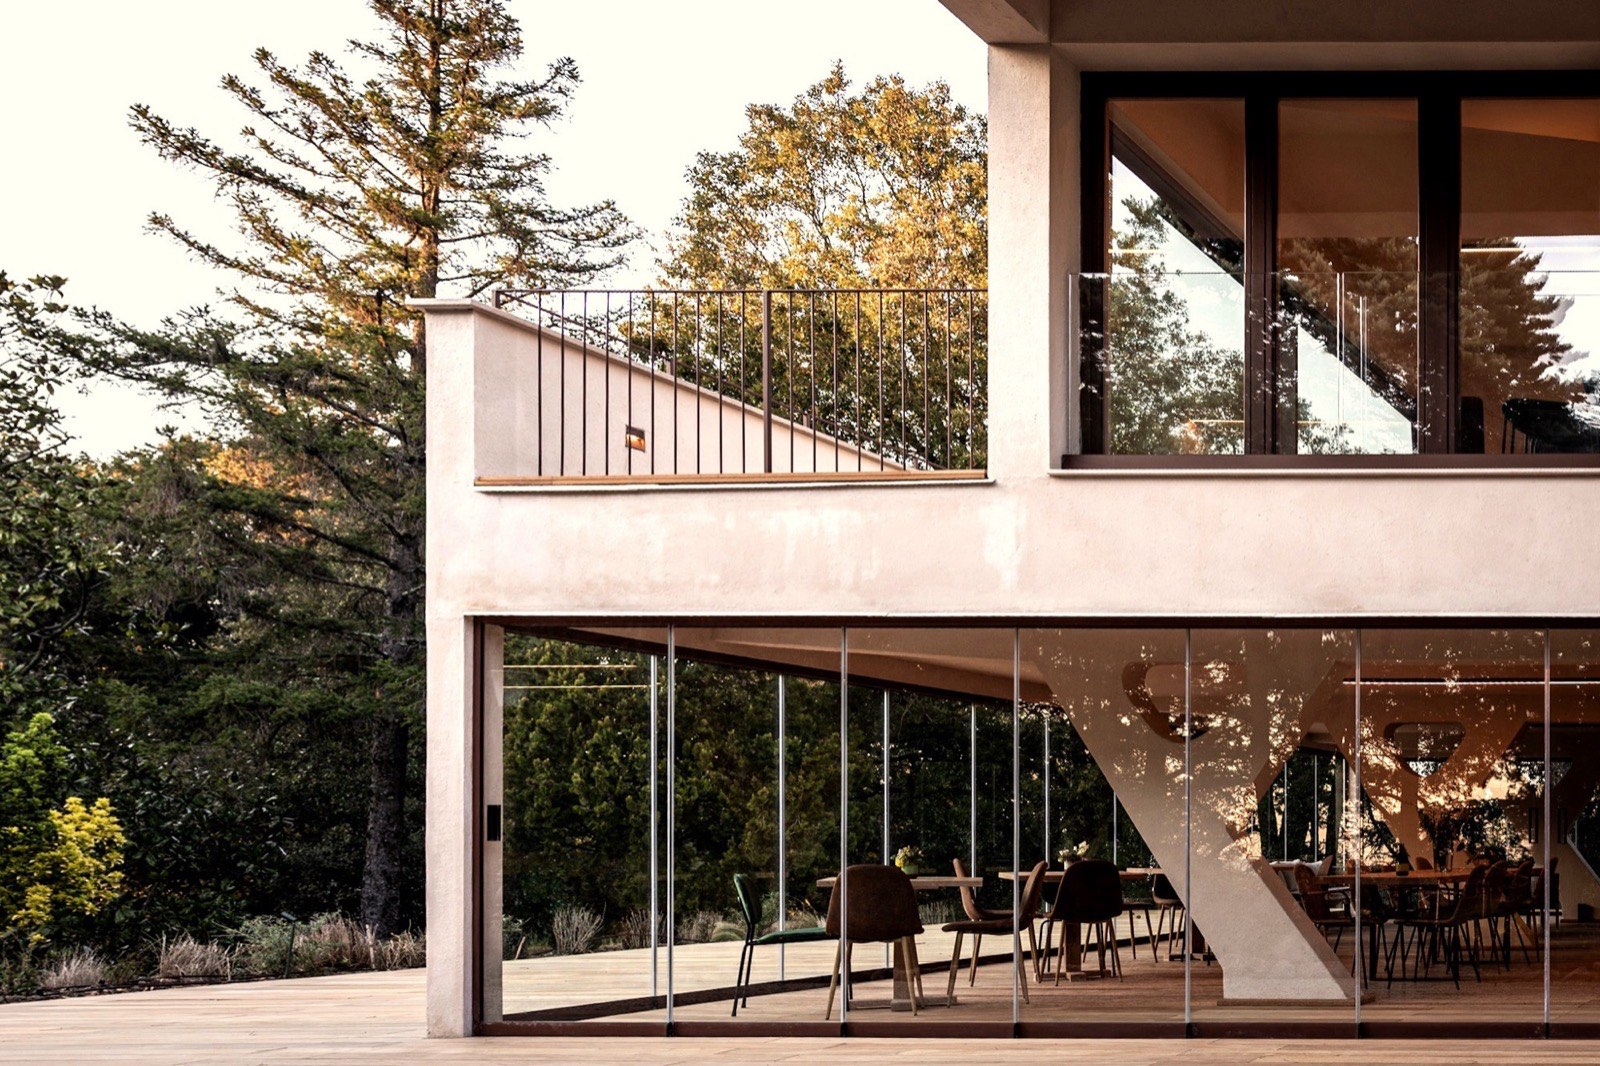
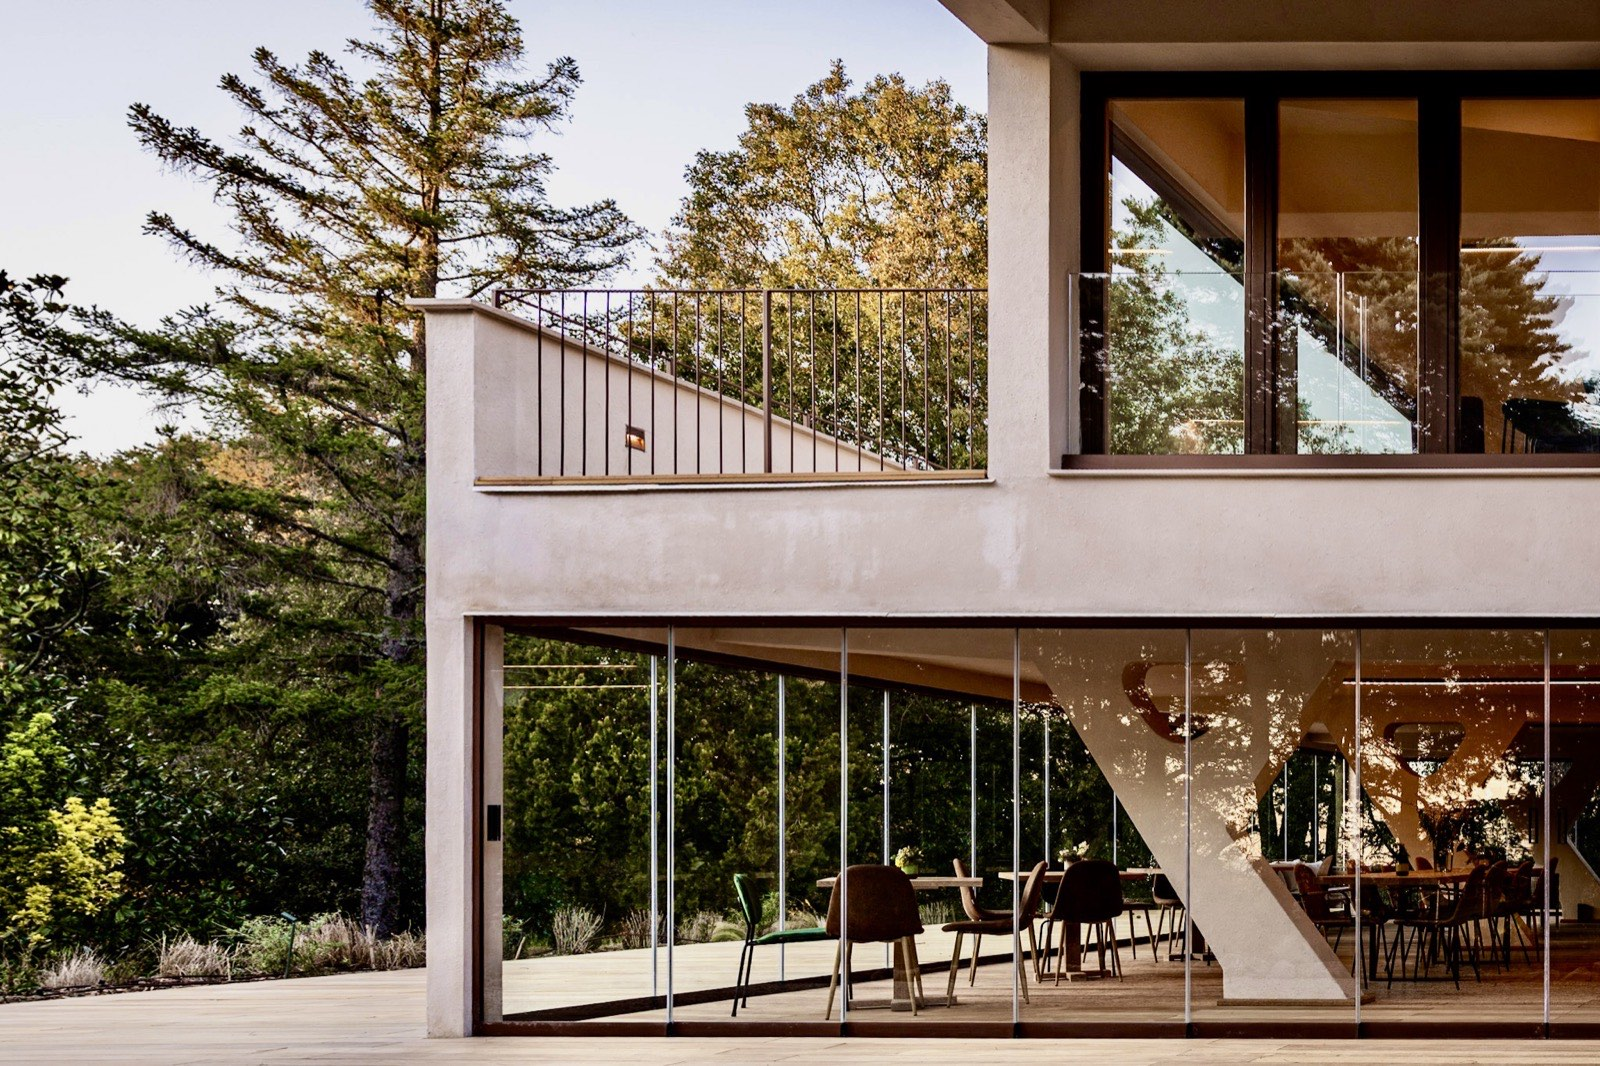
Rimosso autentica.it dal sito + aggiornata foto hero con correzione luce/colori

diff --git a/index.html b/index.html
@@ -7,7 +7,7 @@
   <link rel="preconnect" href="https://fonts.googleapis.com">
   <link rel="preconnect" href="https://fonts.gstatic.com" crossorigin>
   <link href="https://fonts.googleapis.com/css2?family=DM+Serif+Display:ital@0;1&family=Jost:wght@200;300;400;500&display=swap" rel="stylesheet">
-  <meta name="description" content="AUTENTICA — Eventi privati e aziendali, matrimoni e incontri immersivi tra natura e design nella Valle Benedetta, Livorno. autentica.it">
+  <meta name="description" content="AUTENTICA — Eventi privati e aziendali, matrimoni e incontri immersivi tra natura e design nella Valle Benedetta, Livorno.">
   <style>
     *, *::before, *::after { box-sizing: border-box; margin: 0; padding: 0; }
     :root {
@@ -322,7 +322,7 @@
 <!-- INTRO -->
 <section style="background:#fff;" id="intro">
   <div class="container">
-    <p class="section-eyebrow" style="text-align:center">autentica.it · Valle Benedetta, Livorno</p>
+    <p class="section-eyebrow" style="text-align:center">Valle Benedetta, Livorno</p>
     <h2 class="section-title" style="text-align:center">A 10 minuti dalla città,<br>in un altro mondo.</h2>
     <div class="divider"></div>
     <p class="section-lead" style="text-align:center">
@@ -875,11 +875,27 @@
 <section style="background:var(--cream); padding:4rem 2rem; border-top:1px solid rgba(90,64,48,0.1);">
 <div class="container" style="max-width:900px; margin:0 auto; text-align:center;">
 <p style="font-size:0.72rem; letter-spacing:0.3em; text-transform:uppercase; color:var(--gold); margin-bottom:2rem;">Parte del progetto Valle Benedetta</p>
-<div style="display:flex; flex-wrap:wrap; justify-content:center; gap:3rem; align-items:center;">
-<a href="https://vallebenedetta.org" target="_blank" rel="noopener" style="font-size:0.78rem; letter-spacing:0.28em; text-transform:uppercase; color:#5a4030; text-decoration:none; border-bottom:1px solid transparent; padding-bottom:0.3rem; transition:border-color 0.3s; font-weight:500;" onmouseover="this.style.borderBottomColor='var(--gold)'" onmouseout="this.style.borderBottomColor='transparent'">Valle Benedetta Retreat Center</a>
-<span style="color:var(--gold); font-size:1rem;">·</span>
-<a href="https://allaserra.it" target="_blank" rel="noopener" style="font-size:0.78rem; letter-spacing:0.28em; text-transform:uppercase; color:#5a4030; text-decoration:none; border-bottom:1px solid transparent; padding-bottom:0.3rem; transition:border-color 0.3s; font-weight:500;" onmouseover="this.style.borderBottomColor='var(--gold)'" onmouseout="this.style.borderBottomColor='transparent'">Alla Serra — Bar Agricolo</a>
+<div style="display:flex; flex-wrap:wrap; justify-content:center; gap:3rem; align-items:flex-start;">
+
+<div style="text-align:center;">
+<span style="display:block; font-size:0.78rem; letter-spacing:0.28em; text-transform:uppercase; color:#5a4030; font-weight:500; padding-bottom:0.3rem;">Autentica</span>
+<span style="display:block; font-family:var(--font-serif); font-style:italic; font-size:0.85rem; color:#8a7560; margin-top:0.4rem;">Eventi su Misura</span>
 </div>
+
+<span style="color:var(--gold); font-size:1rem; margin-top:0.3rem;">·</span>
+
+<div style="text-align:center;">
+<a href="https://vallebenedetta.org" target="_blank" rel="noopener" style="display:block; font-size:0.78rem; letter-spacing:0.28em; text-transform:uppercase; color:#5a4030; text-decoration:none; border-bottom:1px solid transparent; padding-bottom:0.3rem; transition:border-color 0.3s; font-weight:500;" onmouseover="this.style.borderBottomColor='var(--gold)'" onmouseout="this.style.borderBottomColor='transparent'">Valle Benedetta</a>
+<span style="display:block; font-family:var(--font-serif); font-style:italic; font-size:0.85rem; color:#8a7560; margin-top:0.4rem;">Retreat Center</span>
+</div>
+
+<span style="color:var(--gold); font-size:1rem; margin-top:0.3rem;">·</span>
+
+<div style="text-align:center;">
+<a href="https://allaserra.it" target="_blank" rel="noopener" style="display:block; font-size:0.78rem; letter-spacing:0.28em; text-transform:uppercase; color:#5a4030; text-decoration:none; border-bottom:1px solid transparent; padding-bottom:0.3rem; transition:border-color 0.3s; font-weight:500;" onmouseover="this.style.borderBottomColor='var(--gold)'" onmouseout="this.style.borderBottomColor='transparent'">Alla Serra</a>
+<span style="display:block; font-family:var(--font-serif); font-style:italic; font-size:0.85rem; color:#8a7560; margin-top:0.4rem;">Bar Agricolo</span>
+</div>
+
 </div>
 </section>
 
@@ -934,7 +950,6 @@
 <!-- FOOTER -->
 <footer>
   <span class="footer-logo" style="font-family:'Jost',sans-serif; font-size:1rem; letter-spacing:0.48em; font-weight:300;">AUTENTICA</span>
-  <p style="margin-bottom:0.3rem;color:var(--gold);font-size:0.8rem;letter-spacing:0.1em;">autentica.it</p>
   <p>Valle Benedetta · Azienda Agricola Biologica · Livorno, Toscana</p>
   <p style="margin-top:0.4rem"><a href="mailto:autentica@vallebenedetta.org">autentica@vallebenedetta.org</a></p>
   <p style="margin-top:1.2rem; opacity:0.45; font-size:0.75rem">© 2026 AUTENTICA · Valle Benedetta · Tutti i diritti riservati</p>
